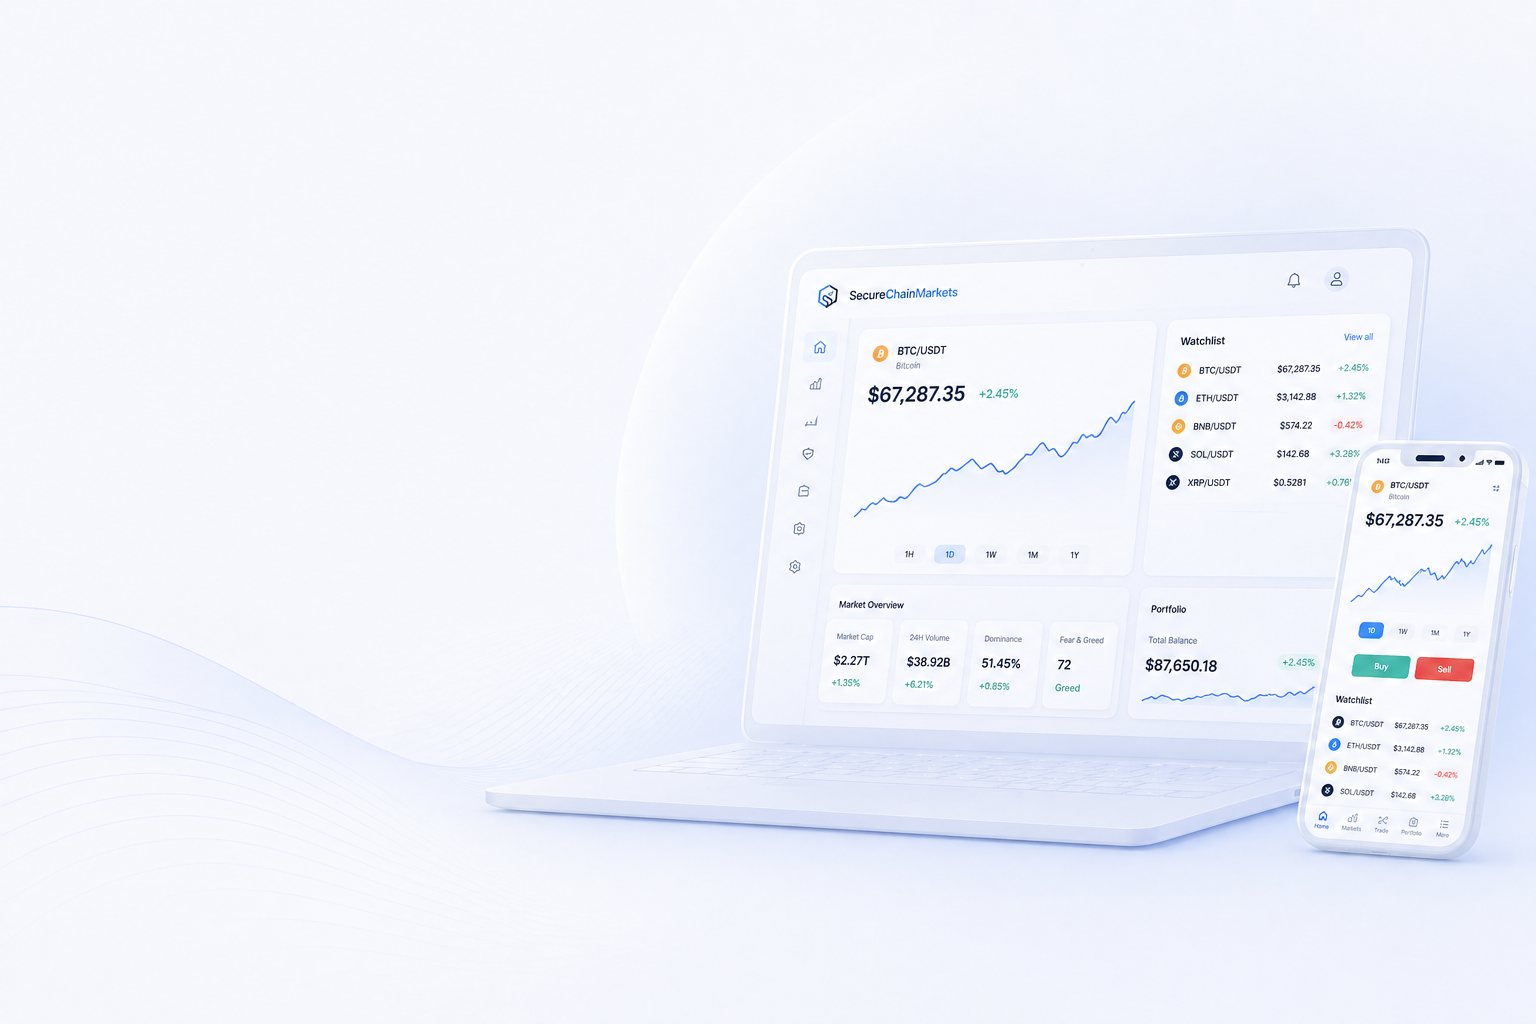
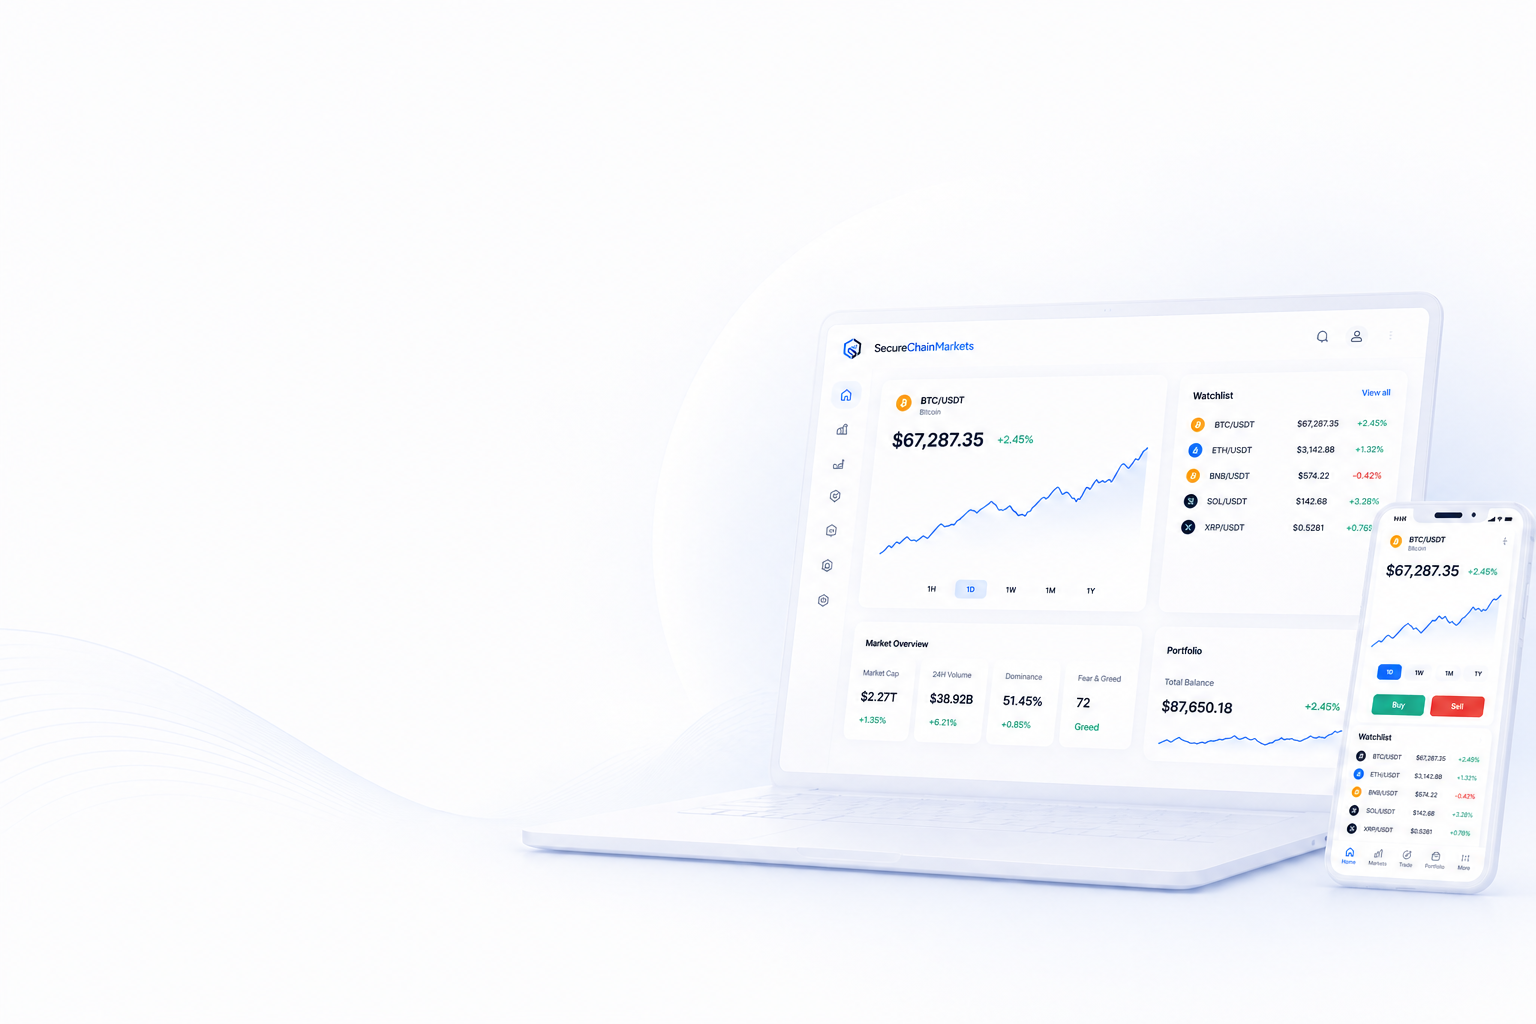
Use the new built-in-padding hero image; drop heavy mask + overlay
- Replace public/landing/hero.png with the new asset (laptop on the right, white empty space on the left already integrated into the image so it blends with the page bg).
- HeroProductShot simplified: no 4-side white overlay, no asymmetric scale, no translate-x on the visual cell. The image's own composition provides the spacing between text and device on desktop.
- Mask is now a very gentle radial fade (1 → 0.4 at 90% → 0 at 100%) — only enough to safety-feather residual edges, not enough to wash the device.
- Responsive sizing: max-w-[640px] on phones, [720px] on tablets, unconstrained on lg+ so the device fills its column. Centered with mx-auto on smaller screens.
- Image stays at brightness 1.02 / contrast 1.02 / opacity 0.98 — preserved clarity per spec.

diff --git a/app/(public)/page.tsx b/app/(public)/page.tsx
@@ -178,7 +178,7 @@ export default async function HomePage() {
           </div>
 
           {/* Cell B: Hero visual (mobile order 2, desktop col 2 spans both rows) */}
-          <div className="relative min-w-0 lg:col-start-2 lg:row-start-1 lg:row-span-2 lg:self-center -mx-4 sm:mx-0 md:-translate-x-5 lg:-translate-x-12 xl:-translate-x-14">
+          <div className="relative min-w-0 lg:col-start-2 lg:row-start-1 lg:row-span-2 lg:self-center -mx-4 sm:mx-0">
             <HeroProductShot />
           </div>
 
@@ -597,54 +597,33 @@ export default async function HomePage() {
    Backed by gpt-image-1 generated assets in /public/landing/.
    ══════════════════════════════════════════════════════════════════════ */
 function HeroProductShot() {
-  /* Soft elliptical mask — every edge (top, bottom, left, right) feathers
-     into transparency so there's no rectangular boundary. */
-  const ellipseMask =
-    "radial-gradient(ellipse 78% 76% at 50% 50%, " +
-    "rgba(0,0,0,1) 58%, " +
-    "rgba(0,0,0,0.75) 72%, " +
+  /* The new hero asset already has white padding around the device that
+     blends with the page background, so we don't apply heavy masks or
+     white overlays. Just a very soft edge fade as a safety net for any
+     residual rectangle, and a subtle filter for crispness. */
+  const softEdge =
+    "radial-gradient(ellipse at center, " +
+    "rgba(0,0,0,1) 70%, " +
+    "rgba(0,0,0,0.4) 90%, " +
     "rgba(0,0,0,0) 100%)";
-
-  /* Four-side white gradient overlay — paints the page bg color over the
-     outer band of the image so blends are stronger near the edges. */
-  const fourSideOverlay =
-    "linear-gradient(to right,  #FFFFFF 0%, rgba(255,255,255,0.55) 14%, rgba(255,255,255,0) 38%)," +
-    "linear-gradient(to left,   #FFFFFF 0%, rgba(255,255,255,0.55) 14%, rgba(255,255,255,0) 38%)," +
-    "linear-gradient(to bottom, #FFFFFF 0%, rgba(255,255,255,0.55) 14%, rgba(255,255,255,0) 38%)," +
-    "linear-gradient(to top,    #FFFFFF 0%, rgba(255,255,255,0.55) 14%, rgba(255,255,255,0) 38%)";
 
   return (
     <div className="relative w-full">
-      <div
-        className="relative w-full will-change-transform"
+      <Image
+        src="/landing/hero.png"
+        alt="SecureChainMarkets dashboard shown on a laptop and phone"
+        width={1536}
+        height={1024}
+        priority
+        sizes="(max-width: 640px) 100vw, (max-width: 1024px) 90vw, 720px"
+        className="block w-full h-auto object-contain mx-auto max-w-[640px] sm:max-w-[720px] lg:max-w-none"
         style={{
-          filter:
-            "drop-shadow(0 22px 30px rgba(15,23,42,0.08)) drop-shadow(0 6px 14px rgba(15,23,42,0.05))",
+          opacity: 0.98,
+          filter: "brightness(1.02) contrast(1.02)",
+          maskImage: softEdge,
+          WebkitMaskImage: softEdge,
         }}
-      >
-        <Image
-          src="/landing/hero.png"
-          alt="SecureChainMarkets dashboard shown on a laptop and phone"
-          width={1536}
-          height={1024}
-          priority
-          sizes="(max-width: 1024px) 100vw, 640px"
-          className="relative w-full h-auto object-contain scale-[1.02] sm:scale-[1.04]"
-          style={{
-            opacity: 0.98,
-            filter: "brightness(1.02) contrast(1.02)",
-            maskImage: ellipseMask,
-            WebkitMaskImage: ellipseMask,
-          }}
-        />
-        {/* Four-side white blend — sits above the masked image so
-            the residual edges fade smoothly into the page bg. */}
-        <div
-          aria-hidden
-          className="absolute inset-0 pointer-events-none z-[2]"
-          style={{ background: fourSideOverlay }}
-        />
-      </div>
+      />
     </div>
   );
 }
